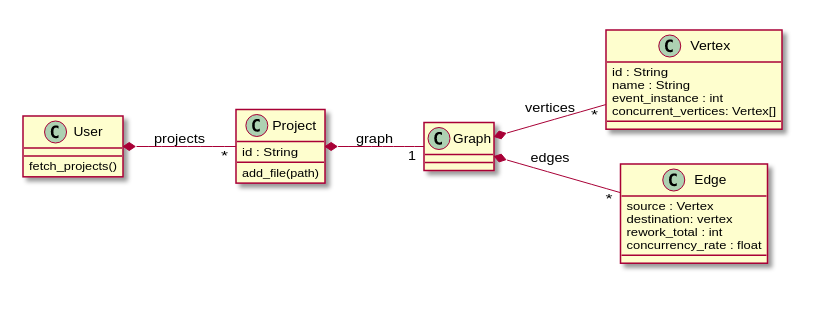
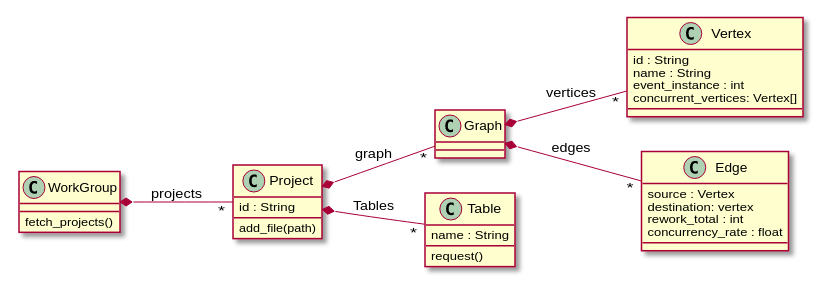
docs(schema): user to workgroup, and added tables

Changed region(s): [[0.0, 0.3322, 0.9732, 0.9362], [0.6387, 0.0302, 1.0, 0.453]]

diff --git a/diagrams/schema_api_publique.md b/diagrams/schema_api_publique.md
@@ -17,7 +17,7 @@ class Edge{
     concurrency_rate : float
 }
 
-class User{
+class WorkGroup{
     fetch_projects()
 }
 
@@ -26,10 +26,16 @@ class Project{
     add_file(path)
 }
 
-Project *-- "1" Graph : graph
+class Table{
+    name : String
+    request()
+}
+
+Project *-- "*" Graph : graph
+Project *-- "*" Table : Tables
 Graph *-- "*" Vertex : vertices
 Graph *-- "*" Edge : edges
-User *-- "*" Project : projects
+WorkGroup *-- "*" Project : projects
 
 @enduml
 ```
